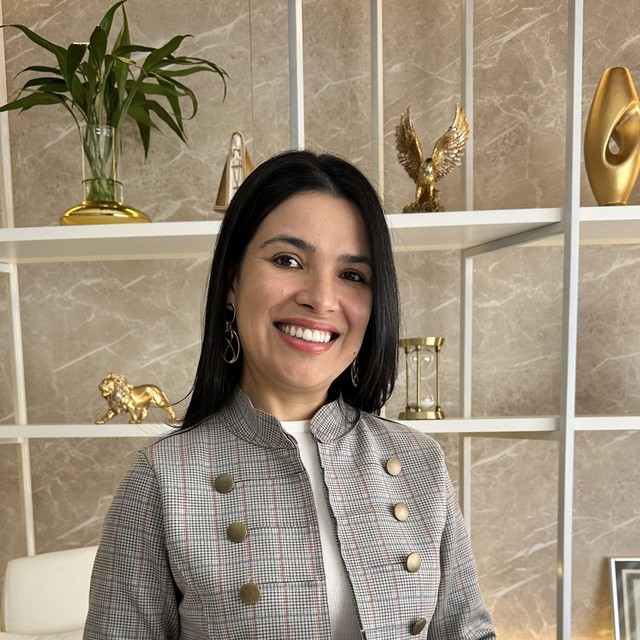
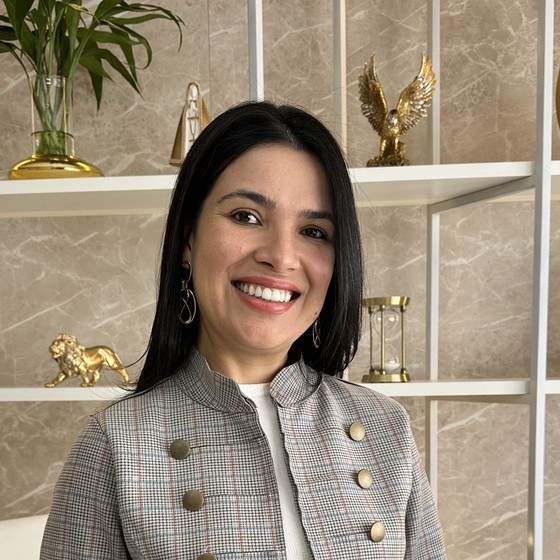
Adiciona seção "A professora" com bio completa da Dra. Bianca
- Retrato grande e centralizado (assets/bianca-portrait.jpg) com
  moldura facetada em azul-marinho
- Avatar do herói ampliado (44 -> 60px) e recortado mais ao centro,
  com link "conheça a trajetória" para a nova seção
- Linhas do tempo de Formação (UESB, Estácio, EBRADI) e Trajetória
  (PGFN, Vaz Barbosa, EY, Marques & Associados), cada item com
  elucidacao do que aquela experiencia agrega ao metodo
- Selos tipograficos no lugar de logos de terceiros (evita sugerir
  endosso de PGFN / EY); racional documentado no README

diff --git a/index.html b/index.html
@@ -340,16 +340,23 @@
     border-top: 1px solid rgba(255, 255, 255, .14);
   }
   .instructor .ini {
-    width: 44px;
-    height: 44px;
+    width: 60px;
+    height: 60px;
     border-radius: 999px;
     object-fit: cover;
-    object-position: 50% 22%;
-    border: 2px solid rgba(255, 255, 255, .25);
+    object-position: 50% 20%;
+    border: 2px solid rgba(255, 255, 255, .3);
     flex: none;
   }
-  .instructor p { font-size: .9rem; color: var(--on-navy-dim); line-height: 1.4; }
+  .instructor p { font-size: .9rem; color: var(--on-navy-dim); line-height: 1.45; }
   .instructor b { color: #fff; font-weight: 700; }
+  .instructor a {
+    color: #fff;
+    text-decoration: none;
+    border-bottom: 1px solid rgba(255, 255, 255, .35);
+    white-space: nowrap;
+  }
+  .instructor a:hover { border-bottom-color: #fff; }
 
   /* hero timeline card */
   .tl-card {
@@ -864,6 +871,102 @@
   .faq details > p { padding: 0 0 1.15rem; font-size: .96rem; }
   .faq details[open] summary { color: var(--navy-bright); }
 
+  /* ============ A PROFESSORA / CV ============ */
+  .about-grid { display: grid; gap: clamp(1.75rem, 5vw, 3.25rem); }
+  @media (min-width: 900px) { .about-grid { grid-template-columns: 336px 1fr; align-items: start; } }
+
+  @media (min-width: 900px) { .about-portrait { position: sticky; top: 5.5rem; } }
+  .about-photo { position: relative; }
+  .about-photo img {
+    position: relative;
+    z-index: 1;
+    width: 100%;
+    display: block;
+    border-radius: 16px;
+    box-shadow: var(--shadow-lg);
+  }
+  .about-photo::before {
+    content: "";
+    position: absolute;
+    left: 16px;
+    right: -16px;
+    top: -16px;
+    bottom: 18px;
+    background: linear-gradient(150deg, var(--navy), var(--navy-mid));
+    border-radius: 16px;
+    clip-path: polygon(0 0, 100% 0, 100% 82%, 78% 100%, 0 100%);
+    z-index: 0;
+  }
+
+  .about-name {
+    font-family: "Montserrat", sans-serif;
+    font-weight: 800;
+    font-size: 1.15rem;
+    color: var(--ink);
+    margin: 1.1rem 0 .2rem;
+  }
+  .about-role { font-size: .88rem; color: var(--muted); }
+
+  .about-intro { font-size: 1.05rem; }
+  .about-intro strong { color: var(--ink); }
+
+  .cv { margin-top: 2rem; }
+  .cv + .cv { margin-top: 2.4rem; }
+  .cv-label {
+    font-family: "Montserrat", sans-serif;
+    font-weight: 700;
+    font-size: .72rem;
+    letter-spacing: .2em;
+    text-transform: uppercase;
+    color: var(--navy-bright);
+    margin: 0 0 1.3rem;
+    display: flex;
+    align-items: center;
+    gap: .7rem;
+  }
+  .cv-label::before { content: ""; width: 1.6rem; height: 2px; background: var(--red); display: inline-block; }
+
+  .cv-list { list-style: none; margin: 0; padding: 0; border-left: 2px solid var(--line); }
+  .cv-item { position: relative; padding: 0 0 1.6rem 1.6rem; }
+  .cv-item:last-child { padding-bottom: 0; }
+  .cv-item::before {
+    content: "";
+    position: absolute;
+    left: -7px;
+    top: .3rem;
+    width: 12px;
+    height: 12px;
+    border-radius: 999px;
+    background: var(--navy-bright);
+    box-shadow: 0 0 0 4px var(--ground);
+  }
+  .cv-item:first-child::before { background: var(--red); }
+
+  .cv-topline { display: flex; flex-wrap: wrap; align-items: baseline; gap: .45rem .7rem; }
+  .cv-mono {
+    font-family: "Montserrat", sans-serif;
+    font-weight: 700;
+    font-size: .6rem;
+    letter-spacing: .1em;
+    text-transform: uppercase;
+    color: var(--on-navy);
+    background: var(--navy);
+    padding: .28rem .5rem;
+    border-radius: 5px;
+    flex: none;
+    transform: translateY(-1px);
+  }
+  .cv-head { font-family: "Montserrat", sans-serif; font-weight: 700; font-size: 1rem; color: var(--ink); }
+  .cv-meta {
+    font-family: "Montserrat", sans-serif;
+    font-size: .74rem;
+    letter-spacing: .03em;
+    color: var(--muted);
+    font-variant-numeric: tabular-nums;
+    margin: .35rem 0 0;
+  }
+  .cv-item > p:last-child { font-size: .95rem; margin-top: .55rem; }
+
   /* ============ FINAL CTA ============ */
   .final {
     position: relative;
@@ -952,7 +1055,8 @@
         <div class="instructor">
           <img class="ini" src="assets/bianca-marques.jpg" alt="Dra. Bianca Cardoso Marques" />
           <p>Curso ministrado por <b>Dra. Bianca Cardoso Marques</b><br />
-            Advogada &middot; Especialista em Direito Tributário e Empresarial</p>
+            Advogada &middot; Especialista em Direito Tributário e Empresarial &middot;
+            <a href="#professora">conheça a trajetória</a></p>
         </div>
       </div>
 
@@ -1257,6 +1361,122 @@
                 propriedade, os honorários de um trabalho tecnicamente qualificado.</span>
             </li>
           </ul>
+        </div>
+      </div>
+    </div>
+  </section>
+
+  <!-- ===================== A PROFESSORA ===================== -->
+  <section class="section" id="professora">
+    <div class="wrap">
+      <div class="section-head reveal">
+        <p class="eyebrow">A professora</p>
+        <h2>Quem desenvolveu o método &mdash; e por que ele funciona</h2>
+        <p>O Advogado Aprendiz não nasceu de teoria de manual. Nasceu de quem já esteve dos
+          dois lados da execução fiscal.</p>
+      </div>
+
+      <div class="about-grid reveal">
+        <div class="about-portrait">
+          <div class="about-photo">
+            <img src="assets/bianca-portrait.jpg" alt="Dra. Bianca Cardoso Marques em seu escritório" />
+          </div>
+          <p class="about-name">Dra. Bianca Cardoso Marques</p>
+          <p class="about-role">Advogada &middot; Especialista em Direito Tributário e Empresarial</p>
+        </div>
+
+        <div>
+          <p class="about-intro">
+            Da <strong>Procuradoria da Fazenda Nacional</strong>, onde acompanhou a cobrança pelo
+            lado de quem executa, ao <strong>Transfer Pricing da EY</strong> &mdash; uma das quatro
+            maiores consultorias do mundo &mdash;, até a sociedade no próprio escritório.
+            <strong>Desde 2009 no Direito Tributário</strong>, e é essa vivência, não um resumo de
+            doutrina, que está destilada em cada aula.
+          </p>
+
+          <div class="cv">
+            <p class="cv-label">Formação</p>
+            <ul class="cv-list">
+              <li class="cv-item">
+                <div class="cv-topline">
+                  <span class="cv-mono">EBRADI</span>
+                  <span class="cv-head">Pós-Graduação em Direito Tributário</span>
+                </div>
+                <p class="cv-meta">Escola Brasileira de Direito &middot; 2020</p>
+                <p>Especialização dedicada exclusivamente à matéria: CTN, legislação esparsa,
+                  contencioso administrativo e judicial, jurisprudência dos tribunais superiores.
+                  O aprofundamento que separa quem &ldquo;viu tributário na faculdade&rdquo; de quem atua
+                  na área todos os dias.</p>
+              </li>
+              <li class="cv-item">
+                <div class="cv-topline">
+                  <span class="cv-mono">Estácio</span>
+                  <span class="cv-head">LL.M. &mdash; Master of Laws em Direito Público</span>
+                </div>
+                <p class="cv-meta">Estácio &middot; 2015</p>
+                <p>Pós-graduação no ramo que rege a relação entre o Estado e o particular &mdash; o
+                  guarda-chuva onde mora o Direito Tributário: competência para tributar, limites ao
+                  poder de fiscalizar e o processo administrativo que antecede a execução fiscal.</p>
+              </li>
+              <li class="cv-item">
+                <div class="cv-topline">
+                  <span class="cv-mono">UESB</span>
+                  <span class="cv-head">Bacharel em Direito</span>
+                </div>
+                <p class="cv-meta">Universidade Estadual do Sudoeste da Bahia &middot; 2012</p>
+                <p>Graduação em universidade pública. A base &mdash; teoria geral do direito, processo
+                  civil, constitucional &mdash; que sustenta qualquer leitura técnica de um processo.</p>
+              </li>
+            </ul>
+          </div>
+
+          <div class="cv">
+            <p class="cv-label">Trajetória profissional</p>
+            <ul class="cv-list">
+              <li class="cv-item">
+                <div class="cv-topline">
+                  <span class="cv-mono">M&amp;A</span>
+                  <span class="cv-head">Sócia &mdash; Marques &amp; Associados</span>
+                </div>
+                <p class="cv-meta">Advocacia Tributária e Empresarial &middot; Brumado/BA &middot; 2018 &ndash; atual</p>
+                <p>Sócia do próprio escritório, com atuação concentrada em Direito Tributário e
+                  Empresarial. É a prática de hoje &mdash; os casos reais de execução fiscal que
+                  alimentam cada aula com situação concreta, não com hipótese de manual.</p>
+              </li>
+              <li class="cv-item">
+                <div class="cv-topline">
+                  <span class="cv-mono">EY</span>
+                  <span class="cv-head">ITS &mdash; Transfer Pricing</span>
+                </div>
+                <p class="cv-meta">Ernst &amp; Young &middot; São Paulo (unidade JK) &middot; 2015 &ndash; 2017</p>
+                <p>Uma das &ldquo;Big Four&rdquo; globais de auditoria e consultoria. A área de International
+                  Tax Services / Transfer Pricing analisa, para fins fiscais, operações entre empresas
+                  do mesmo grupo em países diferentes &mdash; trabalho tributário de altíssima densidade
+                  técnica: método, documentação, enquadramento normativo e defesa de posição perante
+                  o Fisco. É o rigor de raciocínio que estrutura o método do curso.</p>
+              </li>
+              <li class="cv-item">
+                <div class="cv-topline">
+                  <span class="cv-mono">VBA</span>
+                  <span class="cv-head">Advogada &mdash; Vaz Barbosa e Associados</span>
+                </div>
+                <p class="cv-meta">2012 &ndash; 2014</p>
+                <p>Primeiros anos na advocacia privada, já em contencioso &mdash; a virada de lado da
+                  mesa: de quem acompanhava a cobrança para quem constrói a defesa do contribuinte.</p>
+              </li>
+              <li class="cv-item">
+                <div class="cv-topline">
+                  <span class="cv-mono">PGFN</span>
+                  <span class="cv-head">Estagiária &mdash; Procuradoria da Fazenda Nacional</span>
+                </div>
+                <p class="cv-meta">2009 &ndash; 2011</p>
+                <p>A PGFN inscreve os débitos em Dívida Ativa da União e ajuíza as execuções fiscais
+                  federais. Foi ali, do lado de quem cobra, que ela viu como a CDA é montada, como o
+                  Fisco decide executar e onde os próprios Procuradores enxergam fragilidade &mdash; a
+                  perspectiva &ldquo;de dentro&rdquo; que ela ensina a explorar na defesa.</p>
+              </li>
+            </ul>
+          </div>
         </div>
       </div>
     </div>

diff --git a/README.md b/README.md
@@ -34,12 +34,26 @@ Motivo gráfico: lascas geométricas diagonais (SVG). Fio condutor estrutural:
       publicar com autorização expressa e sem mencionar resultado de processo, valor de
       causa ou honorários (publicidade OAB). Trocar por reais ou remover a seção.
 
+## Seção "A professora"
+
+Bloco de autoridade (`#professora`, entre benefícios e prova social): retrato grande da
+Dra. Bianca + biografia com duas linhas do tempo — **Formação** e **Trajetória
+profissional** — cada item com uma elucidação do que aquela experiência agrega ao curso.
+
+**Sobre logos de terceiros:** os nomes PGFN, EY, EBRADI etc. aparecem em texto (histórico
+profissional é informação factual), mas **não** reproduzimos as marcas/brasões desses
+órgãos e empresas — colocar o logo da EY ou da PGFN numa página de venda de curso sugere
+endosso institucional que não existe (risco de marca; a política da EY veda uso do logo
+por terceiros; o brasão da PGFN é símbolo de órgão público). No lugar, cada item usa um
+selo tipográfico curto (`.cv-mono`) na identidade do próprio programa.
+
 ## Assets
 
 | Arquivo | Uso |
 | --- | --- |
 | `assets/logo-white.png` | Logo oficial (branca), cabeçalho e rodapé |
-| `assets/bianca-marques.jpg` | Foto da Dra. Bianca, bloco de credibilidade do herói |
+| `assets/bianca-marques.jpg` | Retrato quadrado, avatar do bloco de credibilidade do herói |
+| `assets/bianca-portrait.jpg` | Retrato vertical grande, seção "A professora" |
 
 ## Fonte da copy
 
